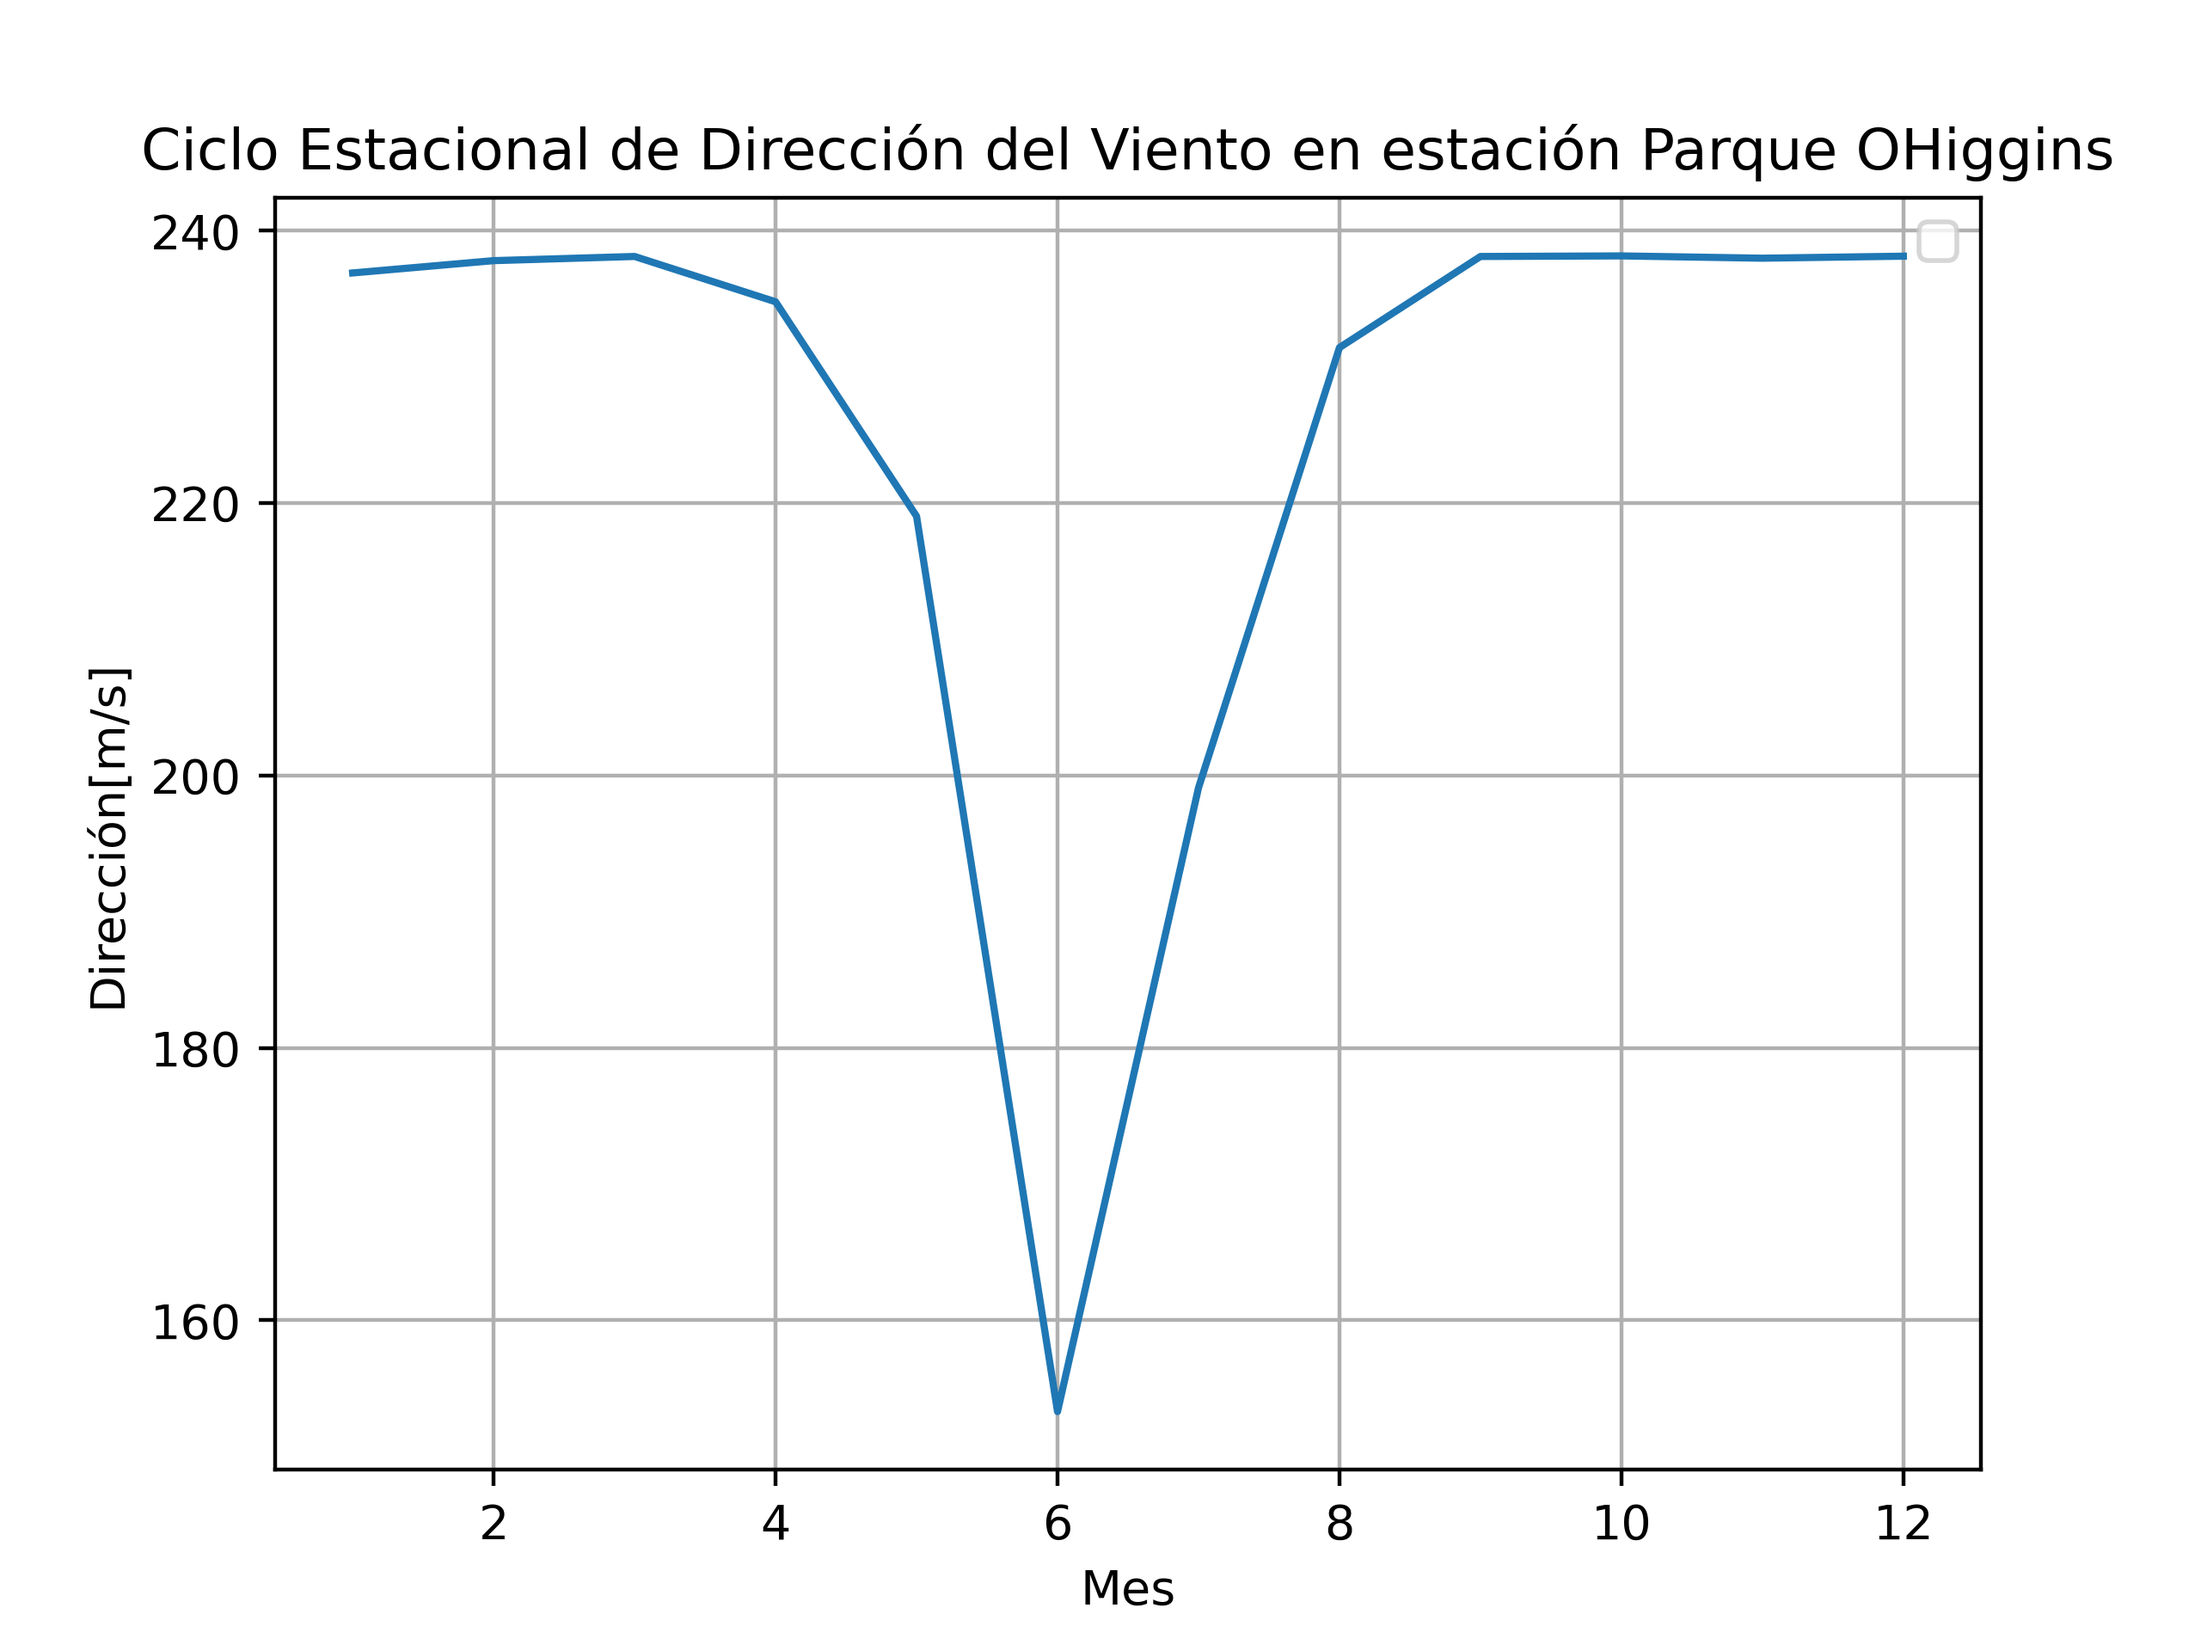
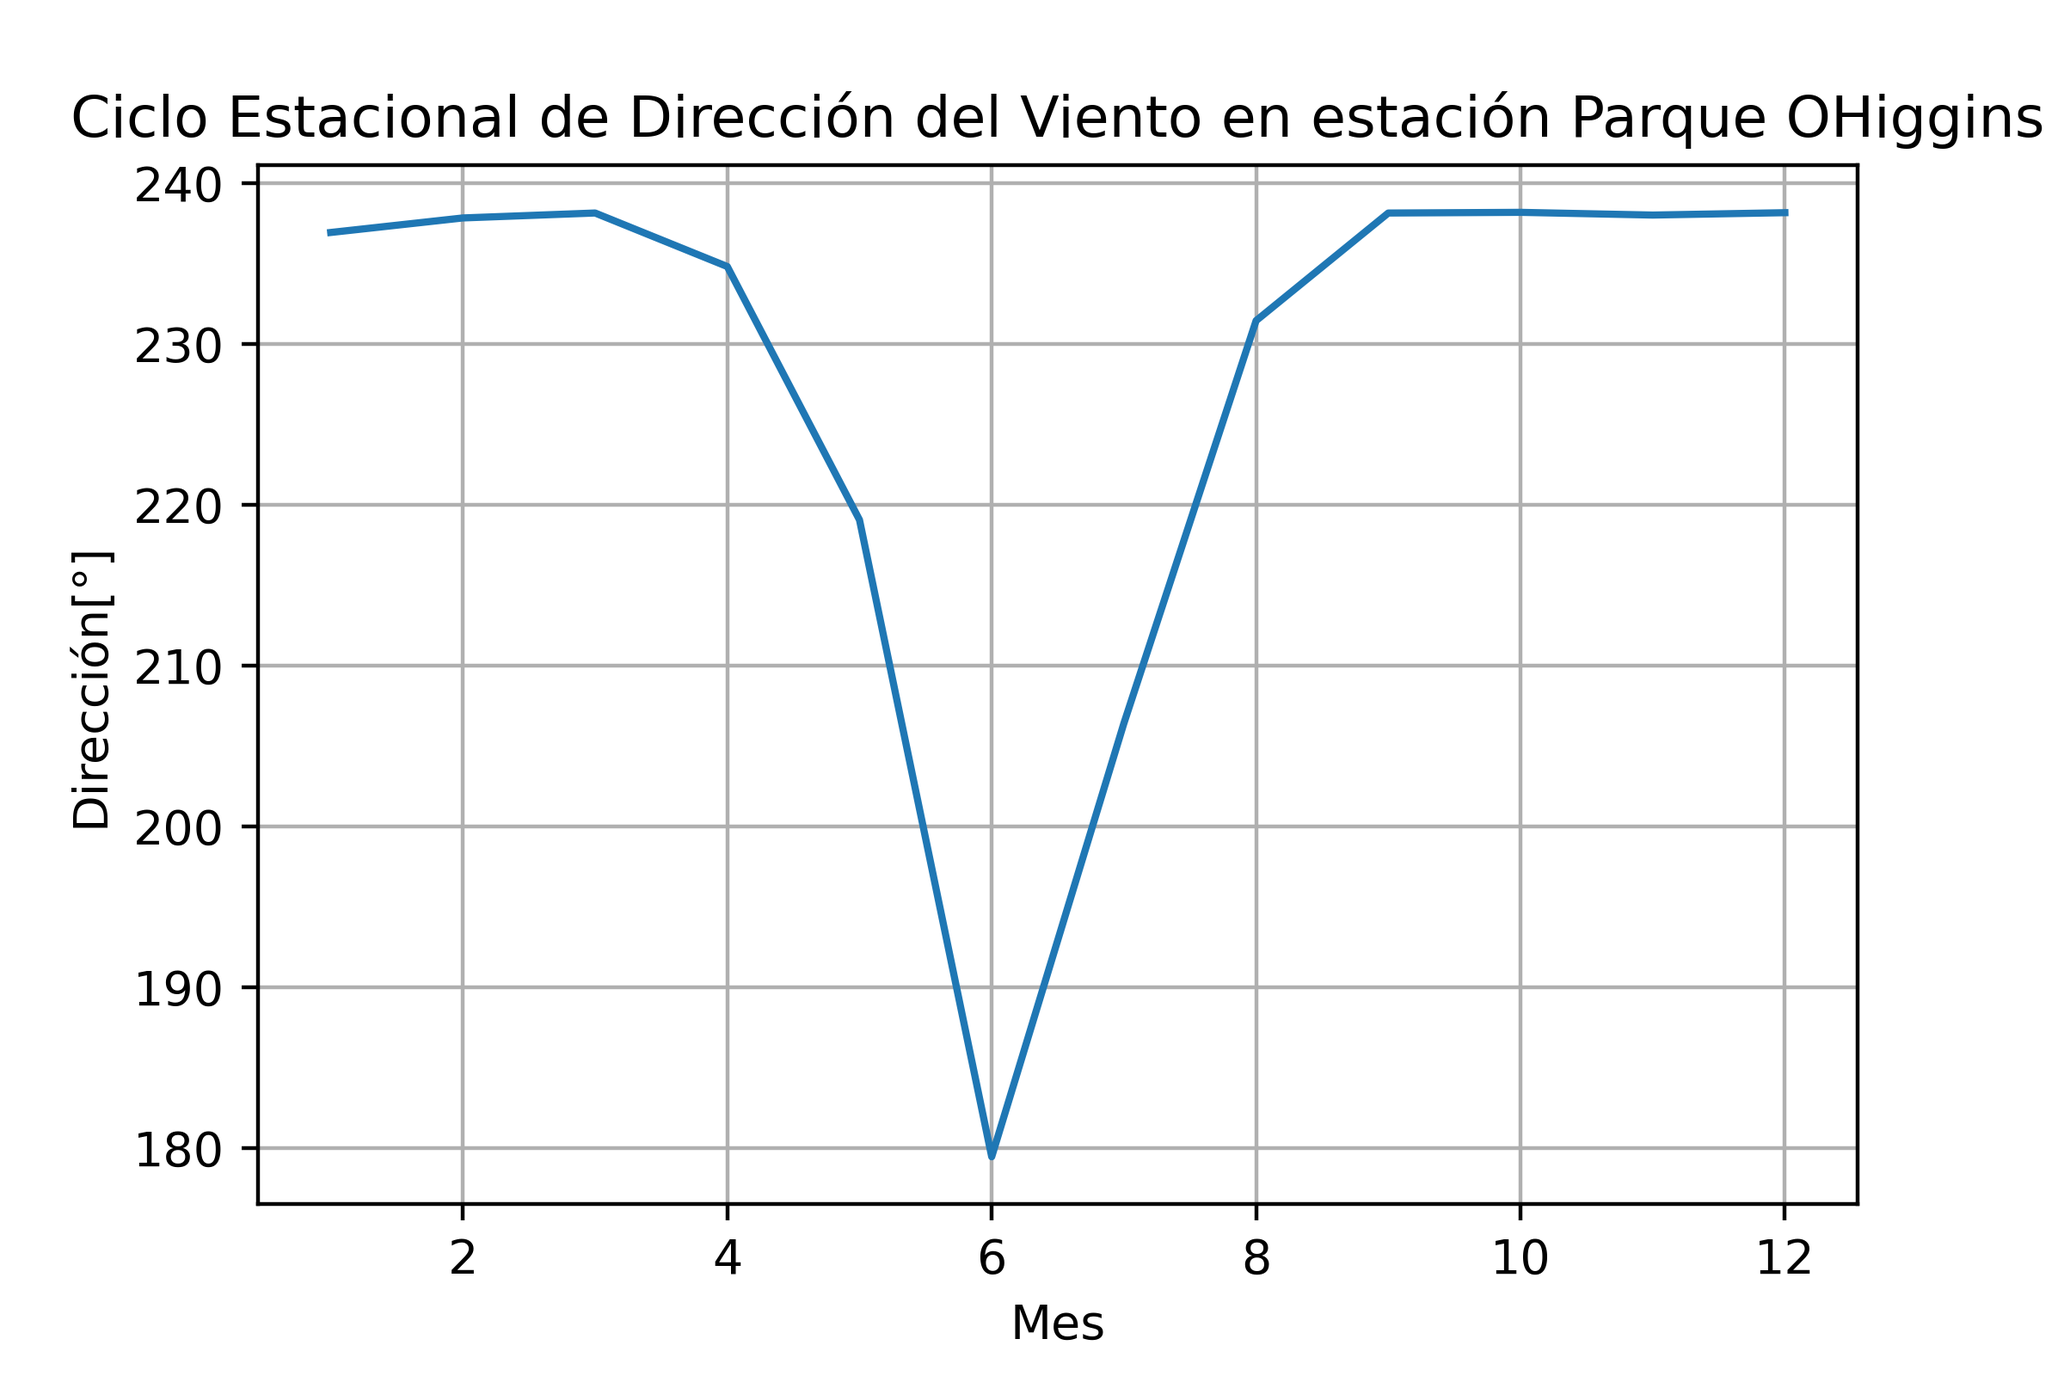
grados

diff --git a/codigo.py b/codigo.py
@@ -137,7 +137,7 @@ fig13.clf()
 ax17 = fig13.add_subplot(111)
 ax17.plot(ciclo_diario.index, Dir_diario)
 ax17.set_xlabel('Hora')
-ax17.set_ylabel('Direccion [rad]')
+ax17.set_ylabel('Direccion [°]')
 ax17.set_title('Ciclo Diario de Direccion del Viento en estación Parque OHiggins')
 ax17.grid()
 fig13.savefig('Ciclo Diario Direccion parque OHiggins', dpi=400)
@@ -188,7 +188,7 @@ fig9.clf()
 ax12 = fig9.add_subplot(111)
 ax12.plot(ciclo_estacional.index, Dir_horario)
 ax12.set_xlabel('Mes')
-ax12.set_ylabel('Dirección[rad]')
+ax12.set_ylabel('Dirección[°]')
 ax12.set_title('Ciclo Estacional de Dirección del Viento en estación Parque OHiggins')
 ax12.grid()
 fig9.savefig('Ciclo Estacional Direccion parque OHiggins', dpi=400)
